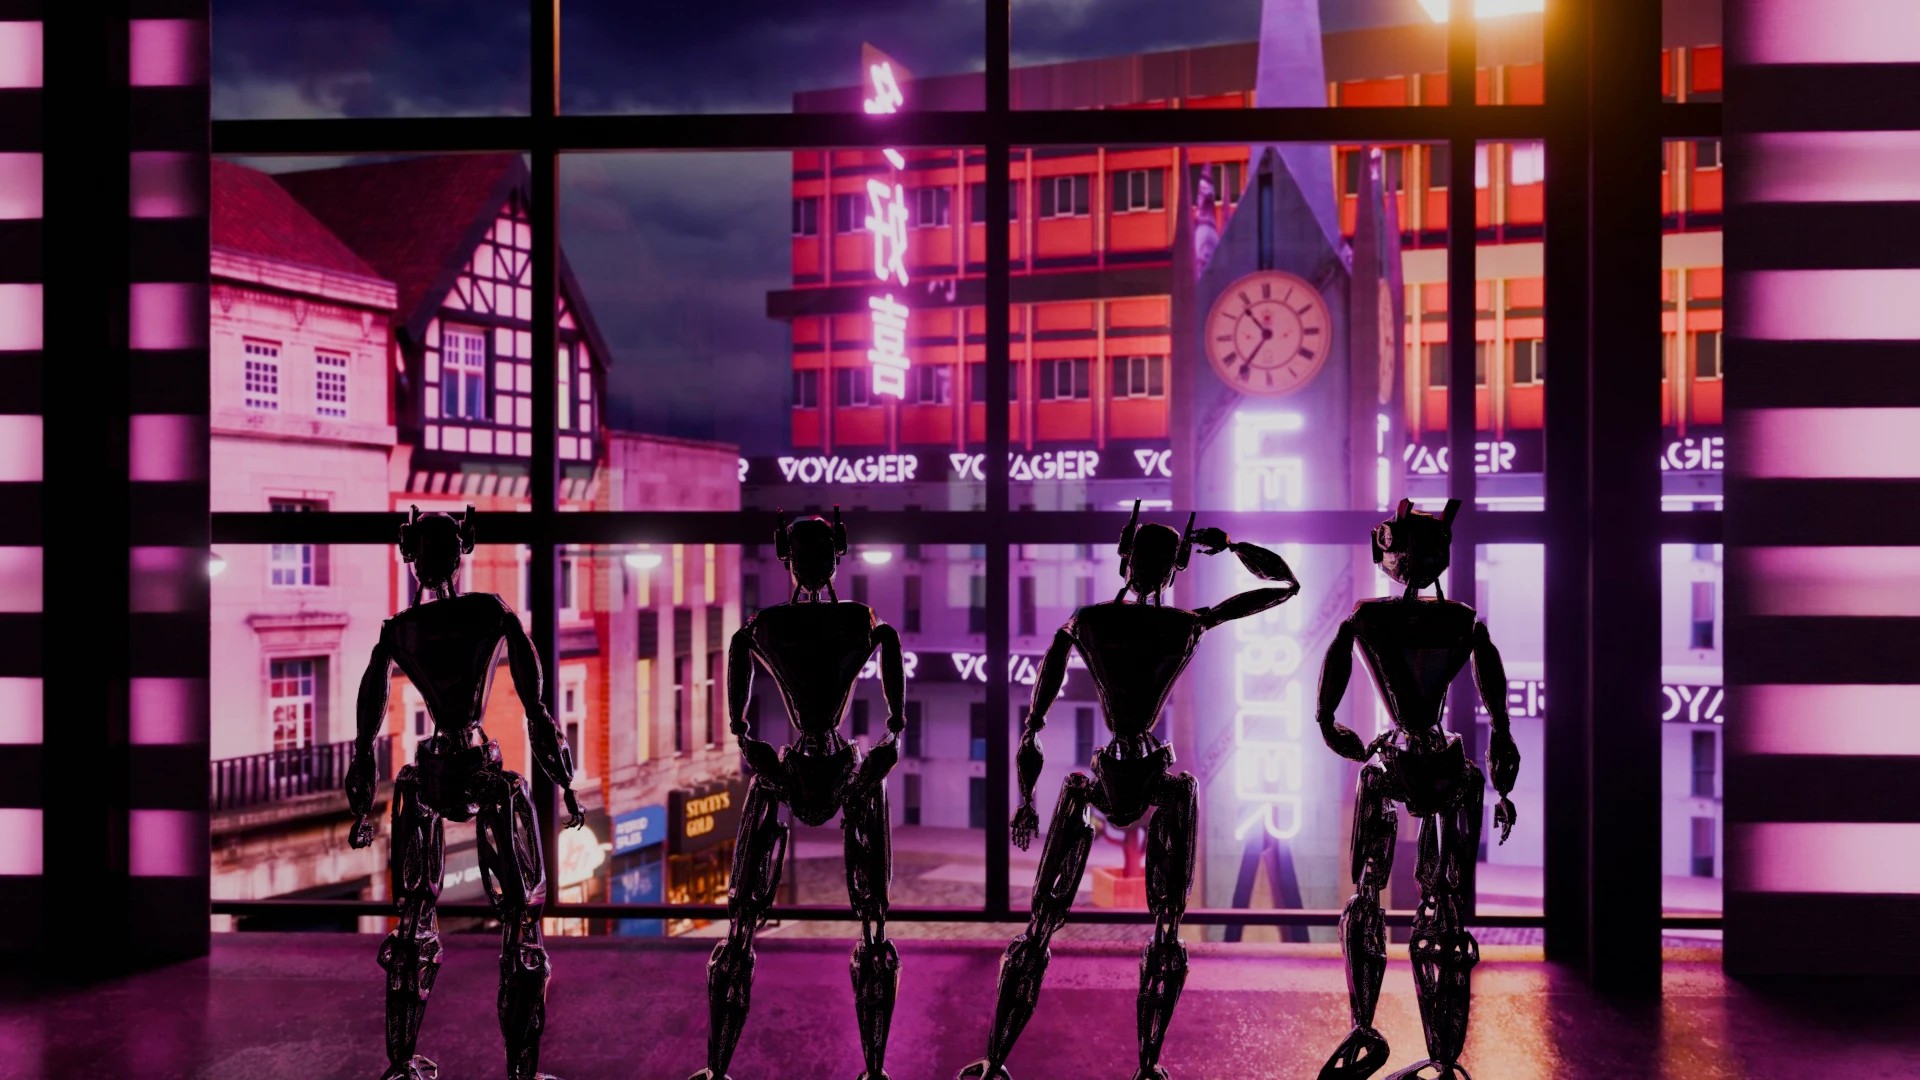
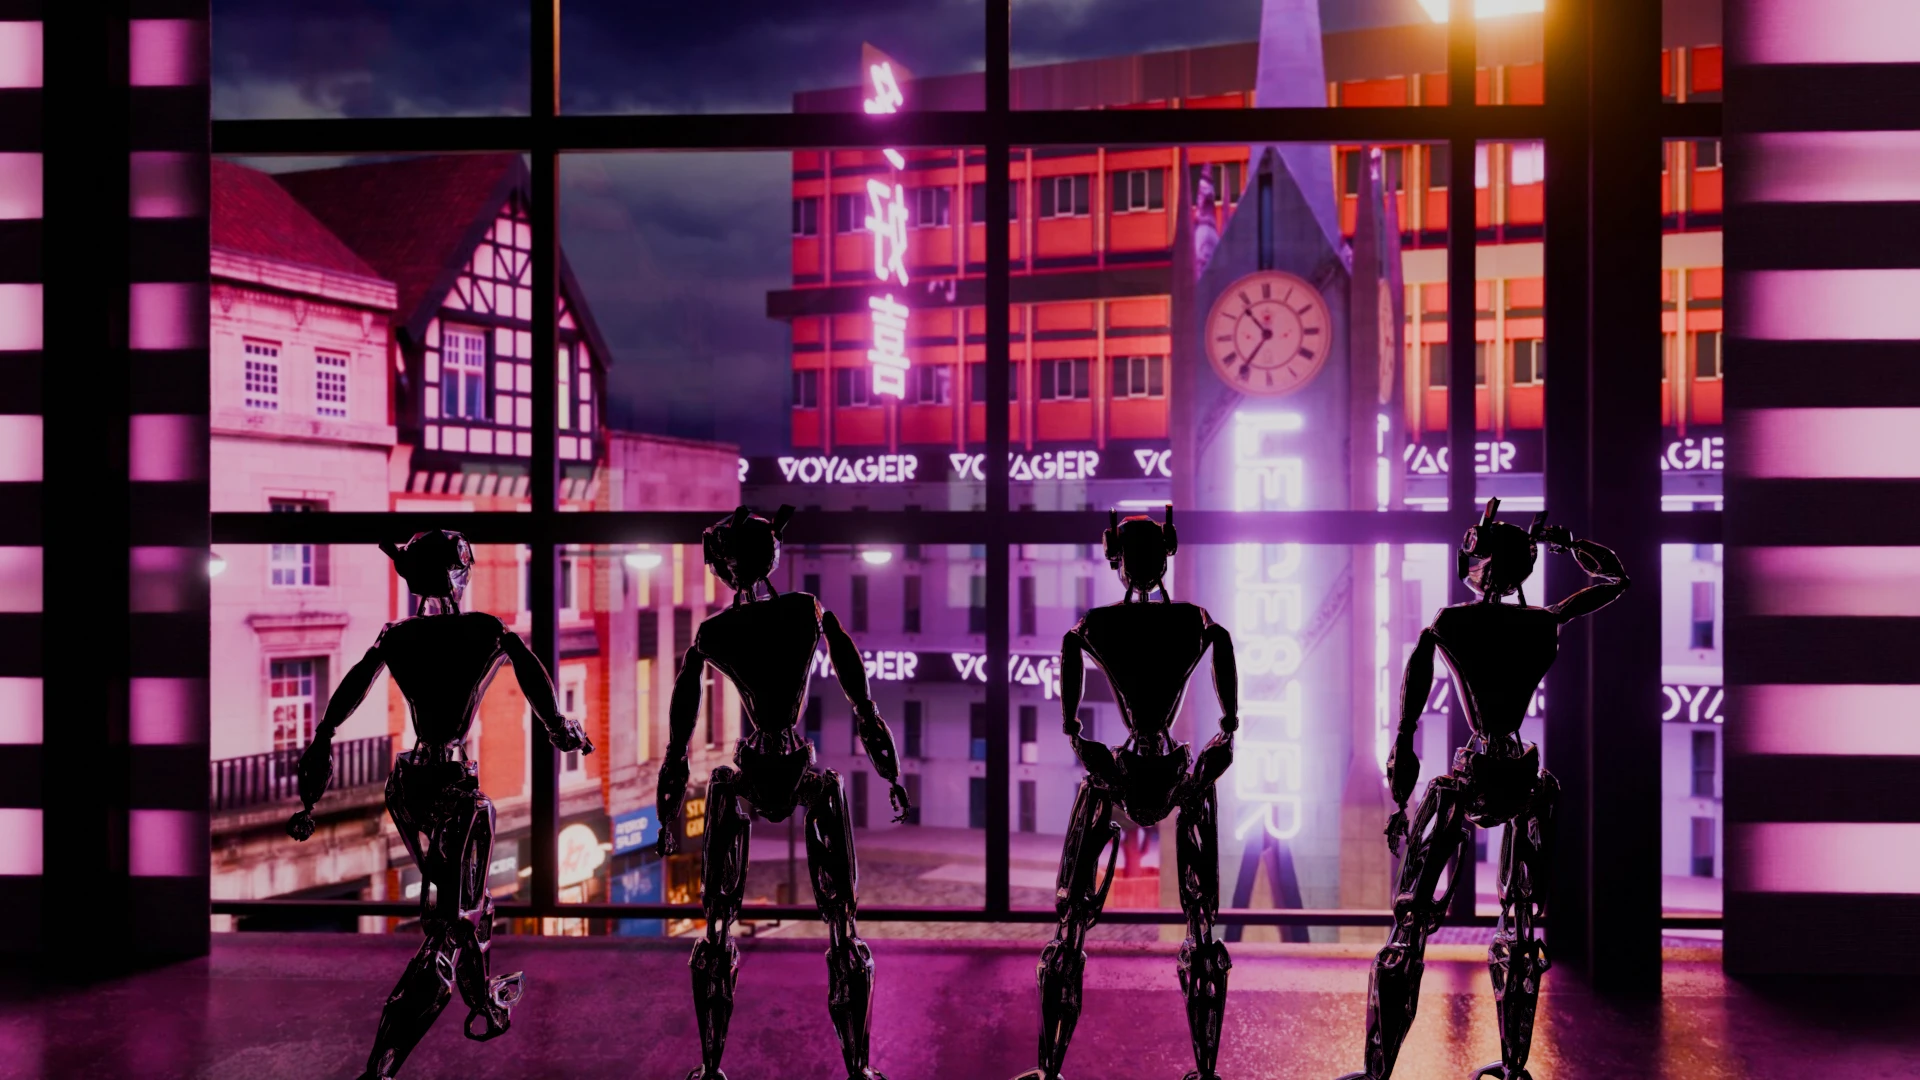
new order

Changed region(s): [[0.5, 0.4583, 0.8438, 1.0], [0.3438, 0.4583, 0.5, 1.0], [0.1562, 0.4583, 0.3125, 1.0]]

diff --git a/src/app/components/TeamSection.js b/src/app/components/TeamSection.js
@@ -36,7 +36,7 @@ export default function TeamSection() {
         "With 20 years of experience building brands and businesses, I've transformed challenges into opportunities. Combining real-world grit with sharp business insight to deliver impactful results.",
       position: {
         top: '70%',
-        left: '23%',
+        left: '42%',
       },
     },
     {
@@ -47,7 +47,7 @@ export default function TeamSection() {
         'An academic researcher, seasoned creative technologist, and technical director dedicated to pioneering immersive experiences and building dynamic communities.',
       position: {
         top: '70%',
-        left: '41.5%',
+        left: '58.5%',
       },
     },
     {
@@ -58,7 +58,7 @@ export default function TeamSection() {
         'Seasoned developer and self-starter with roots in programming since the age of 10. Ariya leverages innovative tech to turn visions into reality.',
       position: {
         top: '70%',
-        left: '58%',
+        left: '74%',
       },
     },
     {
@@ -66,10 +66,10 @@ export default function TeamSection() {
       name: 'Stacey',
       role: 'CEO',
       description:
-        'Award-winning entrepreneur who leads with innovation and a purpose-driven vision. Stacey specialises in creating impactful strategies that drive business growth and meaningful change.',
+        'Award-winning entrepreneur who leads with innovation and a purpose-driven vision. Stacey thrives on making bold visions a reality and elevating the potential of those around her.',
       position: {
         top: '70%',
-        left: '73%',
+        left: '23%',
       },
     },
   ];

diff --git a/src/app/about-us/page.js b/src/app/about-us/page.js
@@ -69,7 +69,7 @@ export default function AboutUsPage() {
             <div className="text-1xl md:text-2xl font-body text-center mb-6">
               Immersive technology is no longer just an idea;
               it&apos;s a powerful tool to captivate audiences,
-              inspire creativity, and forge connections in ways once
+              inspire creativity, and create connections in ways once
               unimaginable.
               <br /> <br />
               We are here to make the next level of technology
